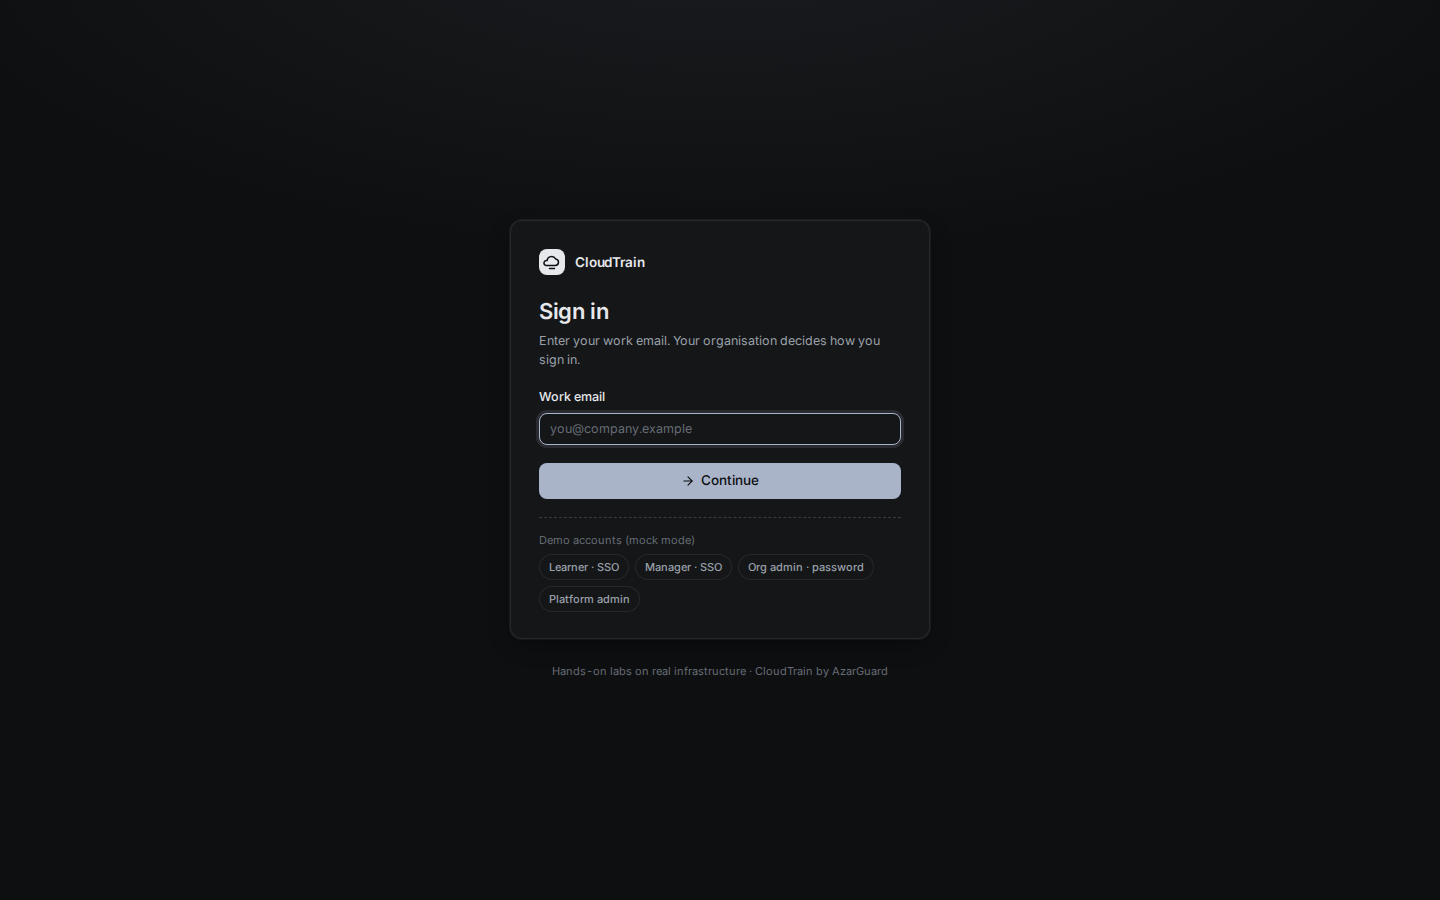
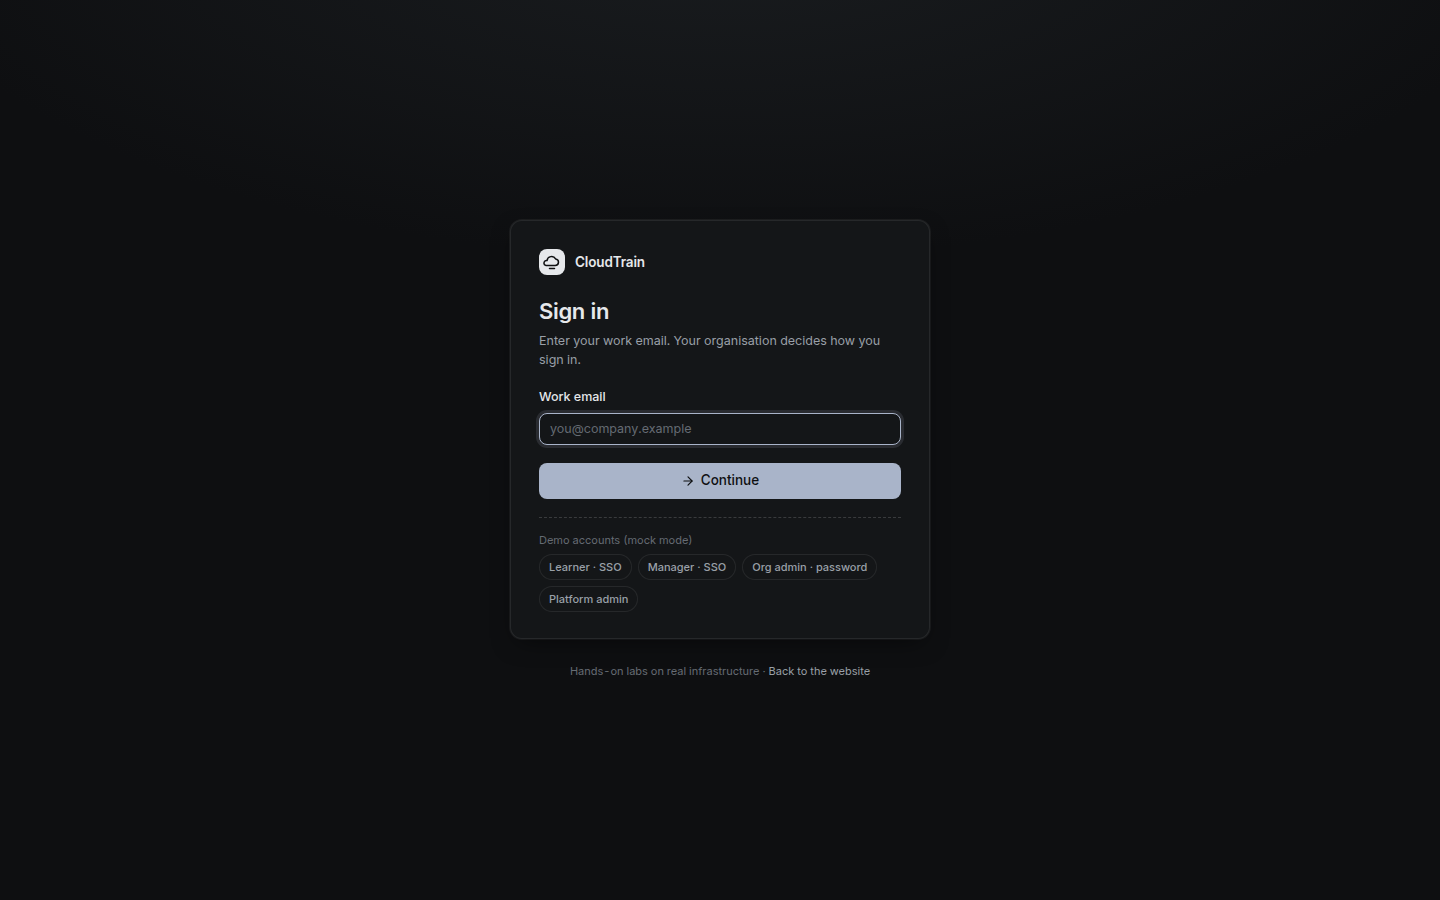
fix(web): real mode registers the Studio sample worker on first use only; website screenshots
No service worker sits in front of the public website in real mode: MSW with the
Studio sample handlers starts in the Studio routes' beforeLoad instead of at boot.
platform-shots --only also takes the light/cream and 1280px variants of the named
views. Adds the landing, public catalog, path detail and sign-in screenshots.

diff --git a/apps/web/src/router.tsx b/apps/web/src/router.tsx
@@ -4,6 +4,7 @@ import { Shell } from './app/Shell';
 import { NotFound } from './app/NotFound';
 import { PageSkeleton } from './components/ui';
 import { CatalogIndex, RootIndex } from './routes/site/Hybrid';
+import { ensureSampleMocks } from './mocks/sample';
 
 // Screens that pull in React Flow or xterm are loaded on demand so the other
 // pages do not download them (see vite.config.ts manualChunks). Role-specific
@@ -198,8 +199,9 @@ export const examResultsRoute = createRoute({ getParentRoute: () => rootRoute, p
 
 /* ------------------------------------------------------------------ author */
 
-export const studioRoute = createRoute({ getParentRoute: () => rootRoute, path: '/studio', component: Studio });
-export const studioDraftRoute = createRoute({ getParentRoute: () => rootRoute, path: '/studio/$draftId', component: StudioDraft });
+// Real mode: Studio's sample data lives in MSW, registered on first use (mocks/sample.ts).
+export const studioRoute = createRoute({ getParentRoute: () => rootRoute, path: '/studio', beforeLoad: () => ensureSampleMocks(), component: Studio });
+export const studioDraftRoute = createRoute({ getParentRoute: () => rootRoute, path: '/studio/$draftId', beforeLoad: () => ensureSampleMocks(), component: StudioDraft });
 
 /* ------------------------------------------------------------------ manager */
 

diff --git a/apps/web/src/main.tsx b/apps/web/src/main.tsx
@@ -25,11 +25,11 @@ const queryClient = new QueryClient({
 
 async function boot() {
   // The env check is inlined (not API_MODE) so the bundler drops the MSW chunk from builds that
-  // never start it; Rolldown does not constant-fold the imported const.
+  // never start it; Rolldown does not constant-fold the imported const. In real mode the gateway
+  // serves everything except Scenario Studio, whose sample worker starts when a Studio route
+  // loads (mocks/sample.ts): no service worker sits in front of the public website.
   if (import.meta.env.VITE_API_MODE === 'real') {
-    // The gateway serves everything except Scenario Studio, which stays sample data.
-    const { startMocks } = await import('./mocks/browser');
-    await startMocks({ sampleOnly: true });
+    /* nothing at boot */
   } else if (import.meta.env.DEV || import.meta.env.VITE_MOCK_API === '1') {
     const { startMocks } = await import('./mocks/browser');
     await startMocks();

diff --git a/apps/web/src/mocks/sample.ts b/apps/web/src/mocks/sample.ts
@@ -1,0 +1,14 @@
+/*
+ * Real API mode (VITE_API_MODE=real): everything goes to the gateway except Scenario
+ * Studio, which has no backend yet and keeps its sample data in MSW. The worker is
+ * registered only when a Studio route loads (router.tsx `beforeLoad`), never on the
+ * public website or the other app pages, so a visitor's page requests are not routed
+ * through a service worker at all. Mock mode registers the full worker at boot.
+ */
+let started: Promise<void> | undefined;
+
+export function ensureSampleMocks(): Promise<void> {
+  if (import.meta.env.VITE_API_MODE !== 'real') return Promise.resolve();
+  started ??= import('./browser').then(({ startMocks }) => startMocks({ sampleOnly: true }));
+  return started;
+}

diff --git a/apps/web/README.md b/apps/web/README.md
@@ -22,7 +22,7 @@ Reference: `docs/website.md`.
 | Mode | How | What |
 |---|---|---|
 | mock (default) | `pnpm --filter web dev` or `task dev:web:mock` | Everything runs in the browser (MSW); no backend or cluster. A first visit is signed out and shows the public website; the landing page offers the sample personas, and a **persona switcher** in the navigation footer switches between them (two fictional organisations with people in every role). |
-| real | `VITE_API_MODE=real`, i.e. `task dev:web` | Vite proxies `/api`, including the terminal and observe WebSockets, to `services/gateway` (`CT_GATEWAY_URL`, default `http://127.0.0.1:8787`). Identity, assignments, teams, cohorts, admin and platform calls go to the gateway endpoints in `docs/api/platform.md`; Home and skill states are the gateway's learner model; only Scenario Studio stays in MSW (no backend yet). |
+| real | `VITE_API_MODE=real`, i.e. `task dev:web` | Vite proxies `/api`, including the terminal and observe WebSockets, to `services/gateway` (`CT_GATEWAY_URL`, default `http://127.0.0.1:8787`). Identity, assignments, teams, cohorts, admin and platform calls go to the gateway endpoints in `docs/api/platform.md`; Home and skill states are the gateway's learner model; only Scenario Studio stays in MSW (no backend yet), whose worker registers when a Studio route first loads, so no service worker sits in front of the website. |
 
 Real mode needs the stack: `task dev:orchestrator`, `task dev:gateway`, `task dev:web`
 (see `services/gateway/README.md`). In the workspace the terminals wait behind an
